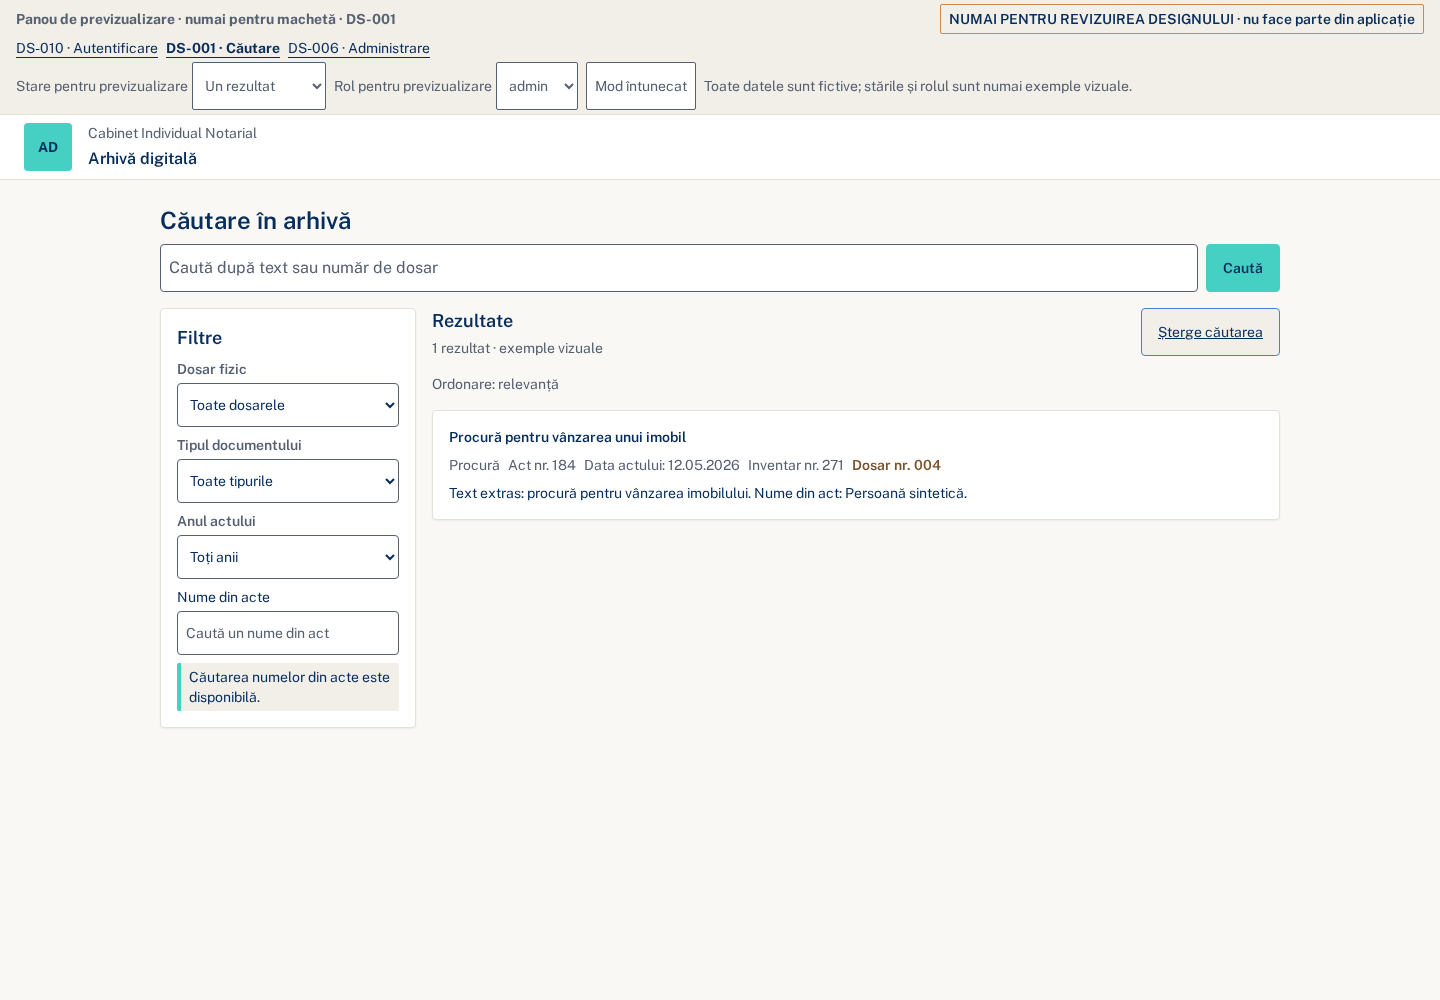
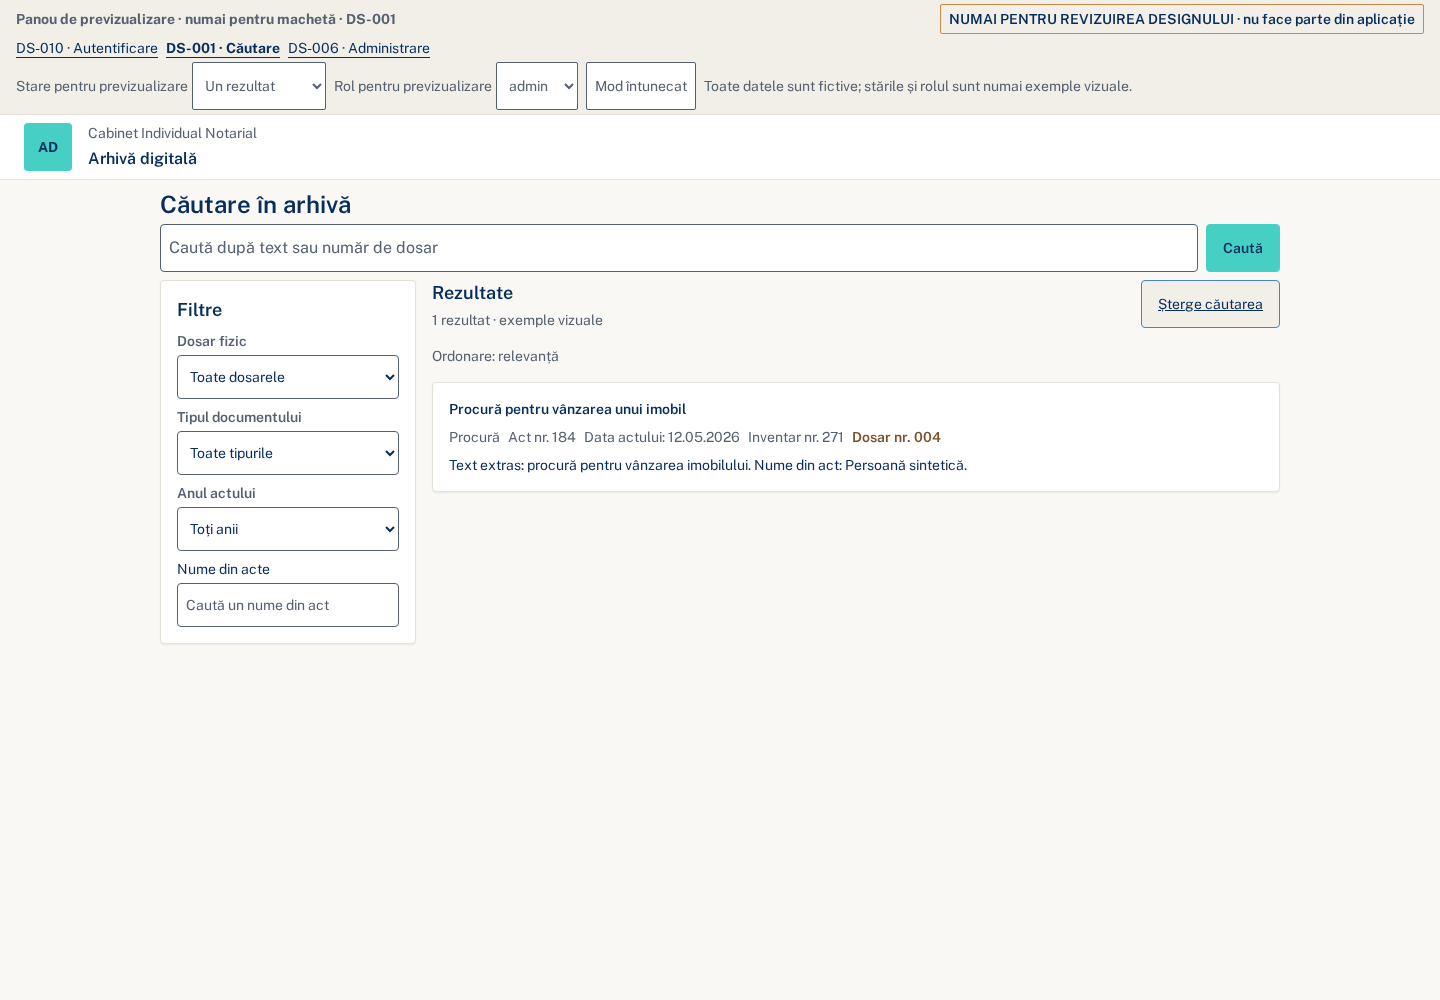
style(design): fit DS-001 archive on desktop

diff --git a/docs/design/mocks/DS-001.html b/docs/design/mocks/DS-001.html
@@ -48,10 +48,10 @@
     .header-copy { display: grid; gap: var(--space-xs); min-inline-size: 0; }
     .header-kicker { color: var(--color-text-secondary); font: var(--text-small); }
     .header-title { overflow: hidden; font: var(--text-body); font-weight: 600; text-overflow: ellipsis; white-space: nowrap; }
-    .wrap { inline-size: min(100%, calc(var(--space-3xl) * 18)); margin-inline: auto; padding: var(--space-lg) var(--space-md) var(--space-2xl); }
-    .page-intro { margin-block-end: var(--space-sm); }
+    .wrap { inline-size: min(100%, calc(var(--space-3xl) * 18)); margin-inline: auto; padding: var(--space-sm) var(--space-md) var(--space-sm); }
+    .page-intro { margin-block-end: var(--space-xs); }
     .page-intro h1 { font: var(--text-h2); }
-    .search-form { display: grid; grid-template-columns: minmax(0, 1fr) auto; gap: var(--space-sm); margin-block-end: var(--space-md); }
+    .search-form { display: grid; grid-template-columns: minmax(0, 1fr) auto; gap: var(--space-sm); margin-block-end: var(--space-sm); }
     .search-input, .filter-select { min-inline-size: 0; inline-size: 100%; min-block-size: var(--space-2xl); padding: var(--space-xs) var(--space-sm); border: thin solid var(--color-text-secondary); border-radius: var(--radius-md); background: var(--color-bg-surface); }
     .search-input { font: var(--text-body); }
     input::placeholder { color: var(--color-text-secondary); opacity: 1; }
@@ -68,28 +68,30 @@
     .field label { color: var(--color-text-secondary); font: var(--text-small); font-weight: 600; }
     .filter-select { min-block-size: calc(var(--space-2xl) - var(--space-xs)); padding: var(--space-xs) var(--space-sm); font: var(--text-small); }
     .permission-note { padding: var(--space-xs) var(--space-sm); border-inline-start: var(--space-xs) solid var(--color-accent-teal); border-radius: var(--radius-sm); background: var(--color-bg-subtle); font: var(--text-small); }
-    .content-column { display: grid; gap: var(--space-md); min-inline-size: 0; }
-    .home-sections { display: grid; gap: var(--space-md); }
-    .browse-section { display: grid; gap: var(--space-sm); min-inline-size: 0; padding-block-end: var(--space-md); border-block-end: thin solid var(--color-border); }
+    .content-column { display: grid; gap: var(--space-sm); min-inline-size: 0; }
+    .home-sections { display: grid; gap: var(--space-sm); }
+    .browse-section { display: grid; gap: var(--space-xs); min-inline-size: 0; padding-block-end: var(--space-xs); border-block-end: thin solid var(--color-border); }
     .browse-heading, .view-heading, .results-toolbar { display: flex; align-items: center; justify-content: space-between; flex-wrap: wrap; gap: var(--space-sm); }
     .browse-heading h2, .view-heading h2 { font: var(--text-h3); }
-    .expand-button { gap: var(--space-sm); min-block-size: var(--space-2xl); margin-inline-start: auto; padding-inline: var(--space-sm); color: var(--color-primary); }
+    .expand-button { gap: var(--space-xs); min-block-size: calc(var(--space-2xl) - var(--space-xs)); margin-inline-start: auto; padding: 0 var(--space-xs); border: 0; border-radius: var(--radius-none); background: transparent; color: var(--color-accent-mid); text-decoration: underline; text-underline-offset: var(--space-xs); }
+    .expand-button:hover, .expand-button:active { border-color: transparent; background: transparent; color: var(--color-primary); }
     .chevron { inline-size: var(--space-sm); block-size: var(--space-sm); border-inline-end: thin solid currentColor; border-block-end: thin solid currentColor; transform: rotate(45deg) translateY(calc(-1 * var(--space-xs))); transition: transform var(--duration-fast); }
     .browse-section.is-expanded .chevron { transform: rotate(225deg) translateY(calc(-1 * var(--space-xs))); }
-    .folder-grid { display: grid; grid-template-columns: repeat(auto-fit, minmax(min(100%, calc(var(--space-3xl) * 3)), 1fr)); gap: var(--space-sm); }
-    .folder-card { justify-content: flex-start; gap: var(--space-sm); min-inline-size: 0; min-block-size: var(--space-2xl); padding: var(--space-xs) var(--space-sm); text-align: start; }
-    .folder-symbol { position: relative; flex: none; inline-size: var(--space-md); block-size: var(--space-sm); border: 0; border-radius: var(--radius-sm); background: var(--color-primary); }
-    .folder-symbol::before { position: absolute; inset-block-start: calc(-1 * var(--space-xs)); inset-inline-start: 0; inline-size: var(--space-sm); block-size: var(--space-xs); border: 0; border-radius: var(--radius-sm) var(--radius-sm) 0 0; background: var(--color-primary); content: ''; }
+    .folder-grid { display: grid; grid-template-columns: repeat(auto-fit, minmax(min(100%, calc(var(--space-3xl) * 3)), 1fr)); gap: var(--space-xs); }
+    .folder-card { justify-content: flex-start; gap: var(--space-sm); min-inline-size: 0; min-block-size: calc(var(--space-2xl) - var(--space-xs)); padding: var(--space-xs) var(--space-sm); text-align: start; }
+    .folder-symbol { position: relative; flex: none; inline-size: var(--space-lg); block-size: calc(var(--space-lg) - var(--space-xs)); }
+    .folder-symbol::before { position: absolute; inset-block-start: 0; inset-inline-start: 0; inline-size: var(--space-md); block-size: var(--space-sm); border-radius: var(--radius-sm) var(--radius-sm) 0 0; background: var(--color-accent-amber); content: ''; }
+    .folder-symbol::after { position: absolute; inset-block-start: var(--space-xs); inset-inline: 0; block-size: calc(var(--space-lg) - var(--space-sm)); border: thin solid var(--color-archival-label-border); border-block-start-color: var(--color-accent-amber); border-radius: 0 var(--radius-sm) var(--radius-sm) var(--radius-sm); background: linear-gradient(180deg, var(--color-accent-amber) 0%, var(--color-accent-amber) calc(100% - var(--space-xs)), var(--color-archival-label-border) 100%); box-shadow: var(--shadow-card); content: ''; }
     .folder-copy { display: grid; gap: var(--space-xs); min-inline-size: 0; }
     .folder-title { overflow-wrap: anywhere; font: var(--text-small); font-weight: 600; }
     .folder-caption { color: var(--color-text-secondary); font: var(--text-small); }
     .folder-number { color: var(--color-archival-label-text); font-weight: 600; }
     .recent-list { display: grid; gap: var(--space-xs); }
-    .recent-preview { display: grid; grid-template-columns: minmax(0, 1fr) auto; align-items: start; gap: var(--space-xs) var(--space-md); min-inline-size: 0; padding: var(--space-sm) var(--space-md); border: thin solid var(--color-border); border-radius: var(--radius-md); background: var(--color-bg-surface); box-shadow: var(--shadow-card); }
+    .recent-preview { display: grid; grid-template-columns: minmax(0, 1fr); align-items: center; gap: 0; min-inline-size: 0; padding: var(--space-xs) var(--space-sm); border: thin solid var(--color-border); border-radius: var(--radius-md); background: var(--color-bg-surface); box-shadow: var(--shadow-card); }
     .recent-main { display: grid; gap: var(--space-xs); min-inline-size: 0; }
     .recent-preview h3 { overflow-wrap: anywhere; font: var(--text-small); font-weight: 600; }
     .recent-meta { display: flex; flex-wrap: wrap; gap: var(--space-xs) var(--space-sm); color: var(--color-text-secondary); font: var(--text-small); }
-    .recent-added { display: grid; gap: var(--space-xs); justify-items: end; color: var(--color-text-secondary); font: var(--text-small); white-space: nowrap; }
+    .recent-added { display: inline-flex; align-items: baseline; gap: var(--space-xs); color: var(--color-text-secondary); font: var(--text-small); white-space: nowrap; }
     .recent-added time { color: var(--color-text-secondary); font-weight: 400; }
     .view-panel { display: grid; gap: var(--space-md); min-inline-size: 0; }
     .view-heading { align-items: flex-start; }
@@ -113,13 +115,12 @@
     .screen-reader-only { position: absolute; inline-size: var(--space-xs); block-size: var(--space-xs); overflow: hidden; clip-path: inset(50%); }
     @media (max-width: 1023px) { .archive-layout { grid-template-columns: minmax(0, 1fr); } .filter-sidebar { order: 0; } .content-column { order: 1; } }
     @media (max-width: 639px) {
-      .wrap { padding-block-start: var(--space-md); }
+      .wrap { padding-block-start: var(--space-sm); }
       .page-intro { margin-block-end: var(--space-sm); }
-      .search-form { margin-block-end: var(--space-md); }
+      .search-form { margin-block-end: var(--space-sm); }
       .search-form .button { padding-inline: var(--space-md); }
       .filter-sidebar { gap: var(--space-sm); padding: var(--space-sm); }
       .recent-preview { grid-template-columns: minmax(0, 1fr); }
-      .recent-added { grid-template-columns: auto auto; justify-content: start; justify-items: start; gap: var(--space-xs); }
       .results { grid-template-columns: minmax(0, 1fr); }
     }
     @media (prefers-reduced-motion: reduce) { *, *::before, *::after { transition: none !important; } }
@@ -141,6 +142,7 @@
         <select id="preview-role" aria-label="Rol pentru previzualizare"><option value="admin">admin</option><option value="arhivar">arhivar</option><option value="cititor">cititor</option></select>
       </label>
       <button class="theme-button" id="theme-toggle" type="button" aria-label="Mod întunecat">Mod întunecat</button>
+      <span class="screen-reader-only" id="role-note" role="status" aria-label="Diferențe de previzualizare" aria-live="polite">Exemple pentru consultare după rol.</span>
       <span>Toate datele sunt fictive; stările și rolul sunt numai exemple vizuale.</span>
     </div>
   </aside>
@@ -167,7 +169,6 @@
           <div class="field"><label for="filter-year">Anul actului</label><select class="filter-select" id="filter-year"><option value="all">Toți anii</option></select></div>
           <label class="field" id="party-search"><span>Nume din acte</span><input class="filter-select" id="party-query" type="search" placeholder="Caută un nume din act"></label>
         </div>
-        <p class="permission-note" id="role-note" role="status" aria-label="Diferențe de previzualizare" aria-live="polite">Exemple pentru consultare după rol.</p>
       </aside>
 
       <div class="content-column">
@@ -262,7 +263,7 @@
     function normalize(value) {
       return value.normalize('NFD').replace(/[\u0300-\u036f]/g, '').toLocaleLowerCase('ro');
     }
-    function folderButton(item, kind, caption) {
+    function folderButton(item, kind, caption = '') {
       const button = document.createElement('button');
       button.type = 'button';
       button.className = 'folder-card browse-item';
@@ -276,10 +277,13 @@
       const title = document.createElement('span');
       title.className = kind === 'dossier' ? 'folder-number' : 'folder-title';
       title.textContent = kind === 'dossier' ? item.number : item.title;
-      const subline = document.createElement('span');
-      subline.className = 'folder-caption';
-      subline.textContent = caption;
-      copy.append(title, subline);
+      copy.append(title);
+      if (caption) {
+        const subline = document.createElement('span');
+        subline.className = 'folder-caption';
+        subline.textContent = caption;
+        copy.append(subline);
+      }
       button.append(symbol, copy);
       return button;
     }
@@ -326,7 +330,7 @@
         summary.className = 'recent-main';
         summary.append(heading, meta);
         article.append(summary);
-        const added = document.createElement('div');
+        const added = document.createElement('span');
         added.className = 'recent-added';
         const label = document.createElement('span');
         label.textContent = 'Adăugat la arhivă';
@@ -334,7 +338,7 @@
         time.dateTime = item.addedDate;
         time.textContent = item.addedLabel;
         added.append(label, time);
-        article.append(added);
+        meta.append(added);
       } else {
         article.append(heading, meta);
         const excerpt = document.createElement('p');
@@ -355,11 +359,11 @@
     function renderHome() {
       const available = activeDocuments();
       const visibleTypeFolders = typeFolders.filter(folder => available.some(item => item.type === folder.type));
-      setSectionItems('browse-type', 'type-folders', visibleTypeFolders, item => folderButton(item, 'type', item.caption), 4);
+      setSectionItems('browse-type', 'type-folders', visibleTypeFolders, item => folderButton(item, 'type'), 4);
       const visibleDossiers = dossiers.filter(folder => available.some(item => item.dossierId === folder.id));
       setSectionItems('browse-dossier', 'dossier-folders', visibleDossiers, item => folderButton({ ...item, title: item.number }, 'dossier', item.context), 4);
       const visibleYears = years.filter(year => available.some(item => item.year === year));
-      setSectionItems('browse-year', 'year-folders', visibleYears.map(year => ({ id: `year-${year}`, title: year, year })), item => folderButton(item, 'year', `Documente din ${item.year}`), 4);
+      setSectionItems('browse-year', 'year-folders', visibleYears.map(year => ({ id: `year-${year}`, title: year, year })), item => folderButton(item, 'year'), 4);
       const recent = [...available].sort((a, b) => b.addedDate.localeCompare(a.addedDate));
       setSectionItems('browse-recent', 'recent-documents', recent, item => documentCard(item, true), 4);
     }
